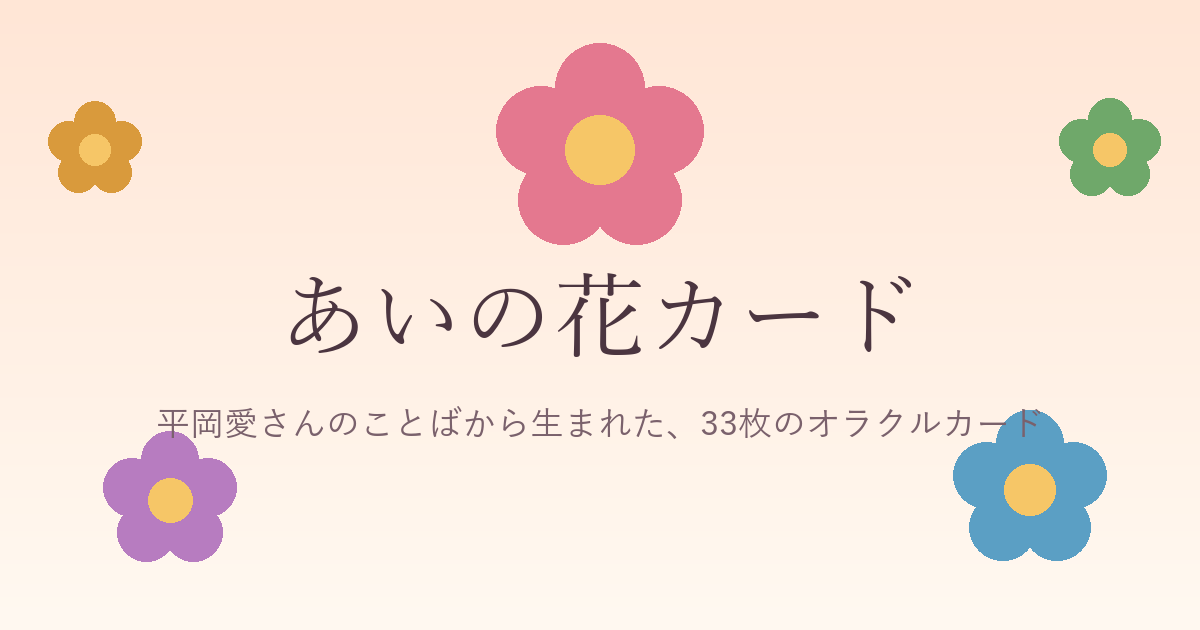
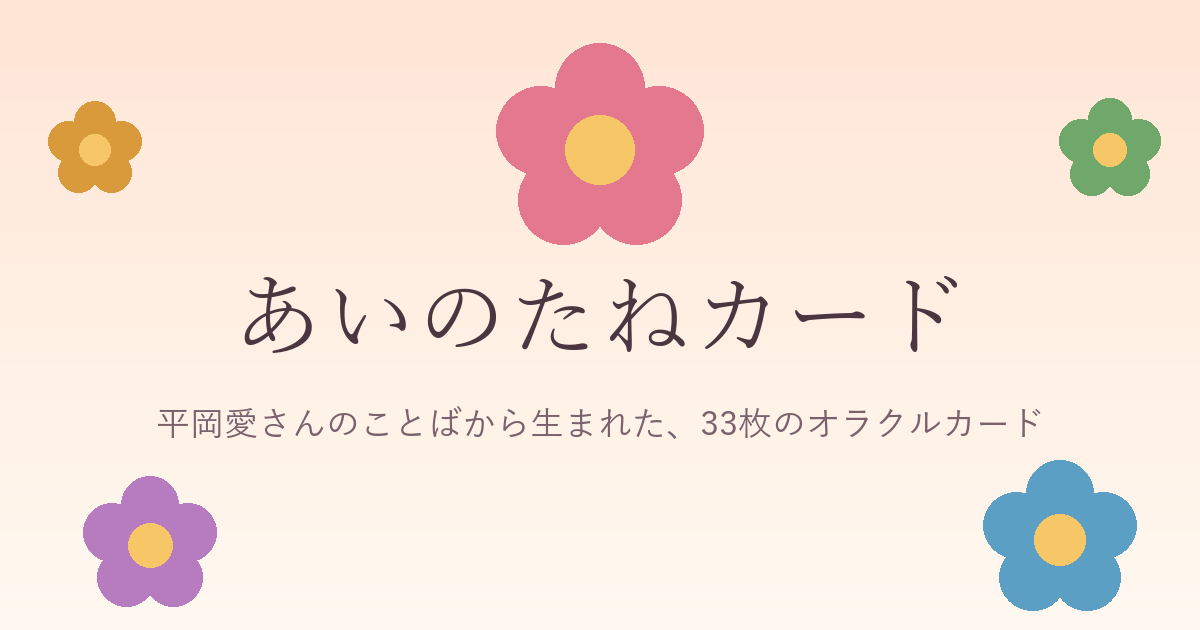
カードの名前を「あいのたねカード」に変更

Changed region(s): [[0.185, 0.4222, 0.8017, 0.573], [0.7708, 0.6333, 0.9558, 0.9651], [0.0617, 0.6635, 0.2158, 0.9651]]

diff --git a/index.html b/index.html
@@ -3,10 +3,10 @@
 <head>
 <meta charset="utf-8">
 <meta name="viewport" content="width=device-width, initial-scale=1, viewport-fit=cover">
-<title>あいの花カード</title>
+<title>あいのたねカード</title>
 <meta name="description" content="平岡愛さんが13年かけて綴ってきたことばから生まれた、33枚のオラクルカード。1枚ひいて、今日のことばを受け取れます。">
 <meta property="og:type" content="website">
-<meta property="og:title" content="あいの花カード">
+<meta property="og:title" content="あいのたねカード">
 <meta property="og:description" content="平岡愛さんのことばから生まれた、33枚のオラクルカード。">
 <meta property="og:url" content="https://hiro8343.github.io/ainohana-oracle-cards/">
 <meta property="og:image" content="https://hiro8343.github.io/ainohana-oracle-cards/og.png">
@@ -139,7 +139,7 @@ blockquote { margin: 0; padding: 14px 16px; border-radius: 14px; background: var
 <div class="wrap">
   <header>
     <p class="eyebrow">平岡愛さんのことばから生まれた</p>
-    <h1>あいの花カード</h1>
+    <h1>あいのたねカード</h1>
     <p class="lead">13年分のことばから編んだ、33枚のオラクルカード。<br>深呼吸をひとつして、今のあなたへの1枚をどうぞ。</p>
   </header>
 
@@ -168,7 +168,7 @@ blockquote { margin: 0; padding: 14px 16px; border-radius: 14px; background: var
     <p>しんどくてひとりで抱えきれないときは、カードより、どうか人を頼ってください。話を聞いてくれる窓口があります。<a href="https://www.mhlw.go.jp/mamorouyokokoro/" target="_blank" rel="noopener">まもろうよ こころ（厚生労働省）</a></p>
   </aside>
 
-  <footer>あいの花カード</footer>
+  <footer>あいのたねカード</footer>
 </div>
 
 <dialog id="dlg" aria-labelledby="dlg-title"><div class="dlg" id="dlg-body" tabindex="-1" autofocus></div></dialog>

diff --git a/README.md b/README.md
@@ -1,4 +1,4 @@
-# あいの花カード
+# あいのたねカード
 
 平岡愛さんのことばから生まれた、33枚のオラクルカードです。
 
